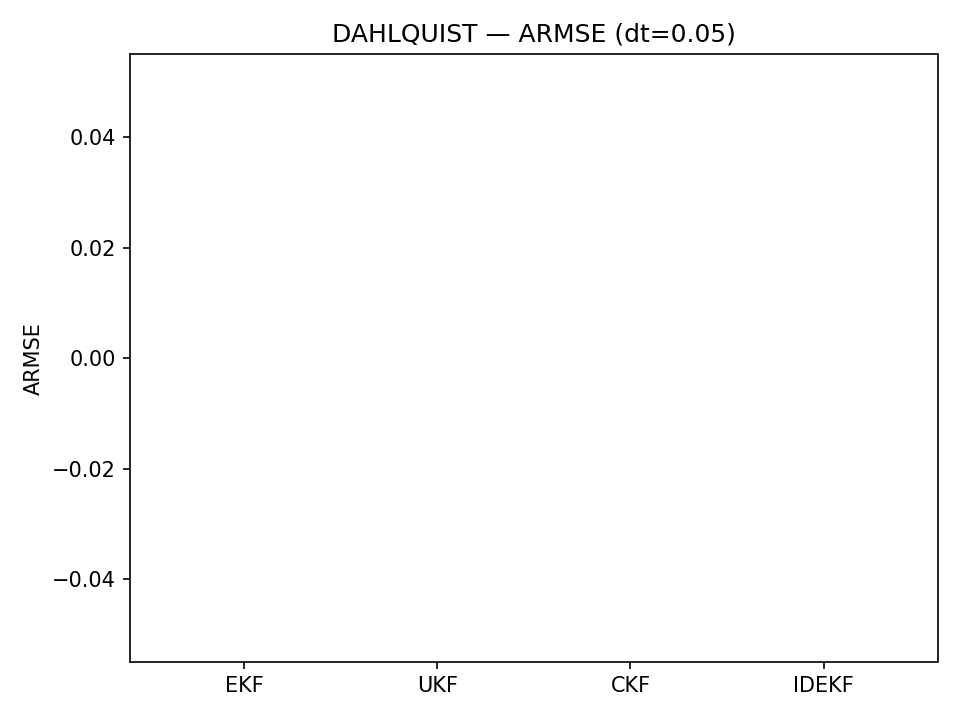
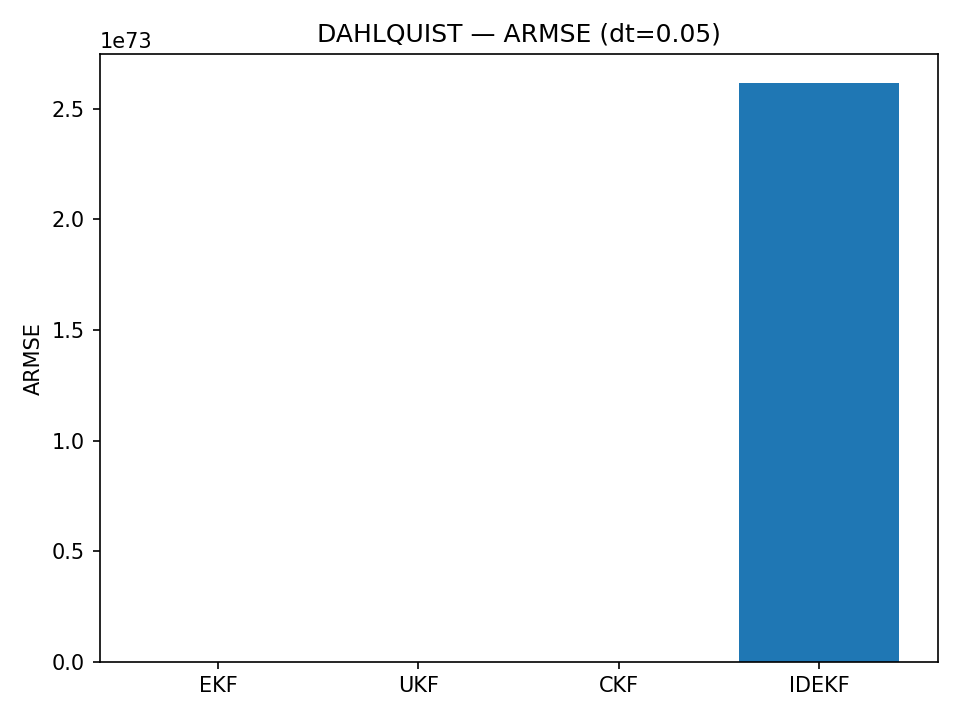
filters

diff --git a/filters.py b/filters.py
@@ -48,7 +48,7 @@ class EKF:
         H = self.H(x_pred)
         y = z - self.h(x_pred)
         S = ensure_psd(H @ P_pred @ H.T + self.R)
-        K = P_pred @ H.T @ np.linalg.inv(S)
+        K = P_pred @ H.T @ np.linalg.solve(S)
         x_upd = x_pred + K @ y
         P_upd = ensure_psd(P_pred - K @ S @ K.T)
         return x_upd, P_upd, y, S
@@ -101,7 +101,7 @@ class UKF:
             dx = (Xi[i] - x_pred).reshape(-1,1)
             S += Wc[i] * (dz @ dz.T)
             Pxz += Wc[i] * (dx @ dz.T)
-        K = Pxz @ np.linalg.inv(S)
+        K = Pxz @ np.linalg.solve(S)
         y = z - z_pred
         x_upd = x_pred + K @ y
         P_upd = ensure_psd(P_pred - K @ S @ K.T)
@@ -147,7 +147,7 @@ class CKF:
             dx = (Xi[i] - x_pred).reshape(-1,1)
             S += W[i] * (dz @ dz.T)
             Pxz += W[i] * (dx @ dz.T)
-        K = Pxz @ np.linalg.inv(S)
+        K = Pxz @ np.linalg.solve(S)
         y = z - z_pred
         x_upd = x_pred + K @ y
         P_upd = ensure_psd(P_pred - K @ S @ K.T)
@@ -162,6 +162,16 @@ from IDKalman.COVtoINF import cov_to_inf
 
 
 class IDEKF:
+    def _num_jacobian_g(self, x, eps=1e-6):
+        x = np.asarray(x, dtype=float)
+        n = x.size
+        fx = np.asarray(self.dm.g(x))
+        J = np.zeros((n, n))
+        for i in range(n):
+            d = np.zeros(n); d[i] = eps
+            J[:, i] = (np.asarray(self.dm.g(x + d)) - fx) / eps
+        return J
+
     def _compute_Hk_zhat(self, x_vec: np.ndarray):
         x_col = x_vec.reshape(-1, 1)
         Hk, zhat = None, None
@@ -209,7 +219,7 @@ class IDEKF:
     def predict(self, x: np.ndarray, P: np.ndarray):
         self._ensure_initialized(x, P)
 
-        Phi_k = self.dm.F(x)                    
+        Phi_k   = self._num_jacobian_g(x)        
         gamma_k = np.eye(self._n)
         Q_k = self.dm.Q
 

diff --git a/run_armse.py b/run_armse.py
@@ -11,7 +11,8 @@ def build_discrete_model(f, Jf, G, dt):
         J = Jf(x, 0.0)
         return x + dx*dt + 0.5*(J @ dx)*(dt**2)
     def F(x):
-        return np.eye(x.shape[0]) + Jf(x, 0.0)*dt
+        J = Jf(x, 0.0)
+        return np.eye(J.shape[0]) + J*dt + 0.5*(J @ J)*(dt**2)
     Qd = G @ G.T * dt
     return DiscreteModel(g, F, Qd)
 
